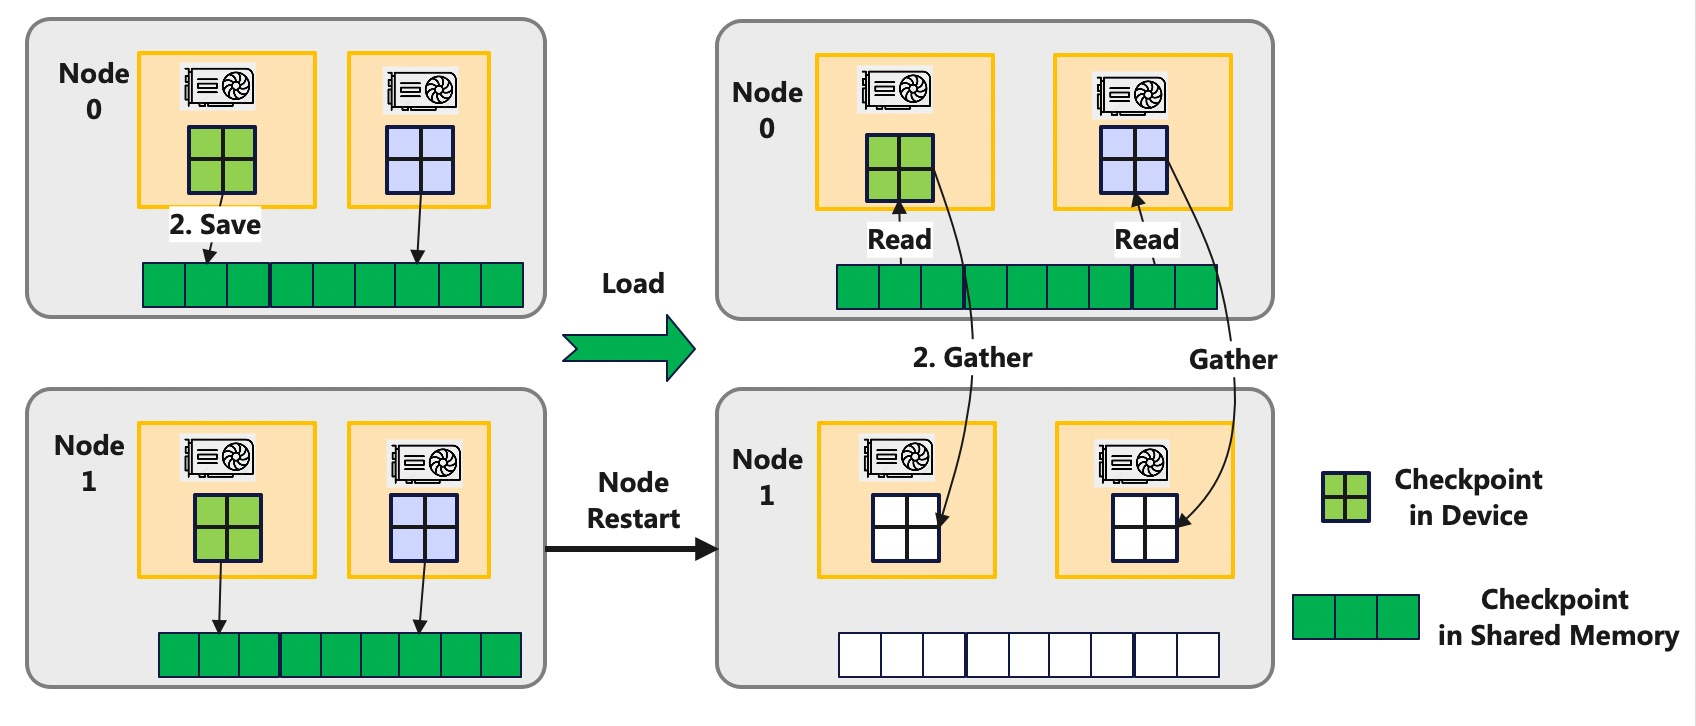
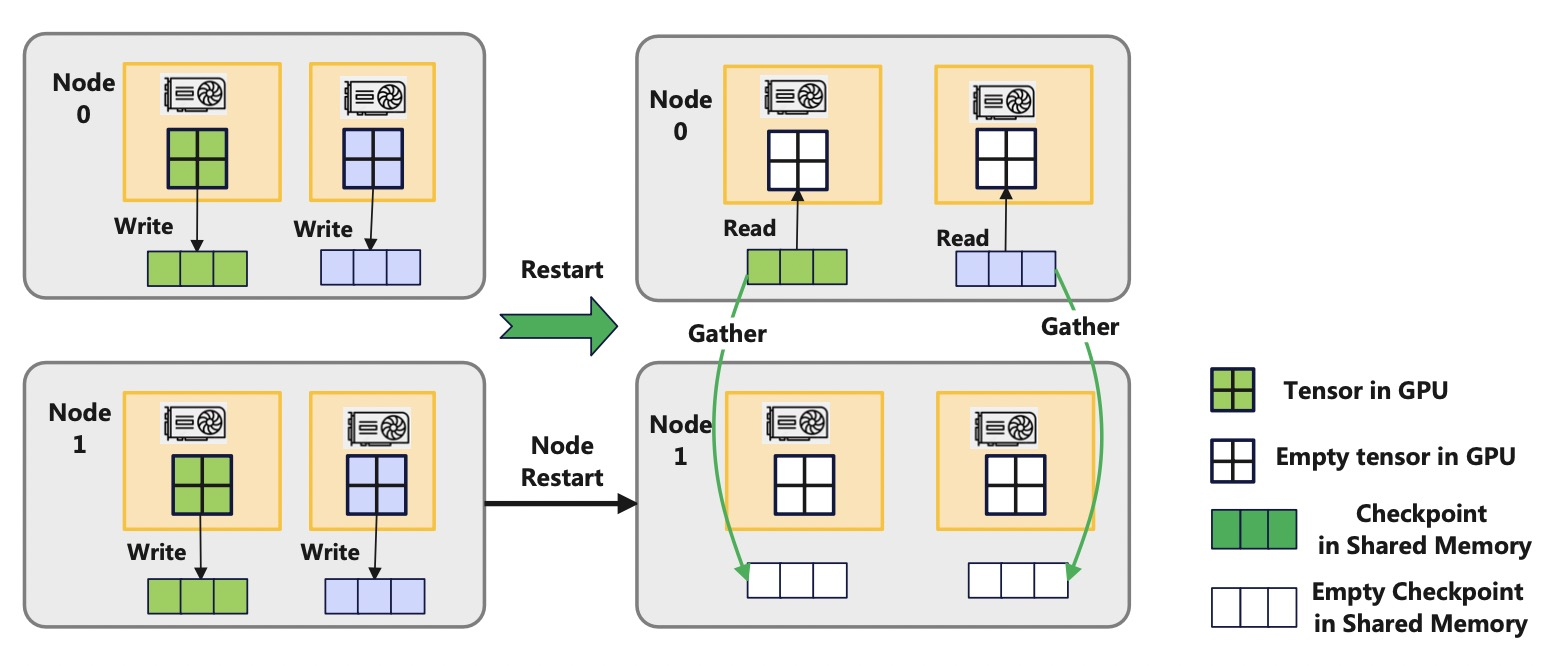
Fix by comments.

Changed region(s): [[0.0, 0.0, 0.9884, 0.961]]

diff --git a/docs/design/checkpoint-in-memory.md b/docs/design/checkpoint-in-memory.md
@@ -41,7 +41,7 @@ backup strategies for different distributed training strategies.
 ### Backup Checkpoint Shards of Data Parallelism
 
 The ranks in different DP units has the same model replica. If a node breakdowns and restarts,
-the retarted node can gather the model checkpoint from the node in other DP unit.
+the retarted node can gather the model checkpoint from the memory of the node in other DP unit.
 
 <div align="center">
 <img src="../figures/ft_llm_training/dp-ckpt-backup.jpg" alt="Async Checkpoint Classes" width="600">
@@ -50,12 +50,11 @@ the retarted node can gather the model checkpoint from the node in other DP unit
 ### Backup Checkpoint Shards of ZERO Optimizer or FSDP
 
 The each rank has an unique shard of model and optimizer states using DeepSpeed ZERO or FSDP.
-Before saving checkpoint into the shared memory, the job can group nodes and each group has
-2 nodes. The ranks of a node in a group can exchange checkpoint shards by
-`torch.distributed.all_gather_object`. After allgathering checkpoint shards,
-each rank has two checkpoint shards in the device and can write the checkpoint shards
-from the device into the shared memory. If a node in a group breakdowns and restarts,
-The ranks of the node can gather its checkpoint shard from the backup nodes.
+After saving the checkpoint into the shared memory, the job can split nodes into backup groups
+with two nodes. The ranks of a node in a backup group can exchange checkpoint shards in the shared memory by
+`torch.distributed.all_gather`. After allgathering checkpoint shards,
+each rank has two checkpoint shards in the shared memory. If a node in a group breakdowns and restarts,
+the ranks of the node can gather its checkpoint shard from the memory of backup nodes.
 If the nodes in a group all fails, the training can only resume from the checkpoint in the storage.
 
 <div align="center">
